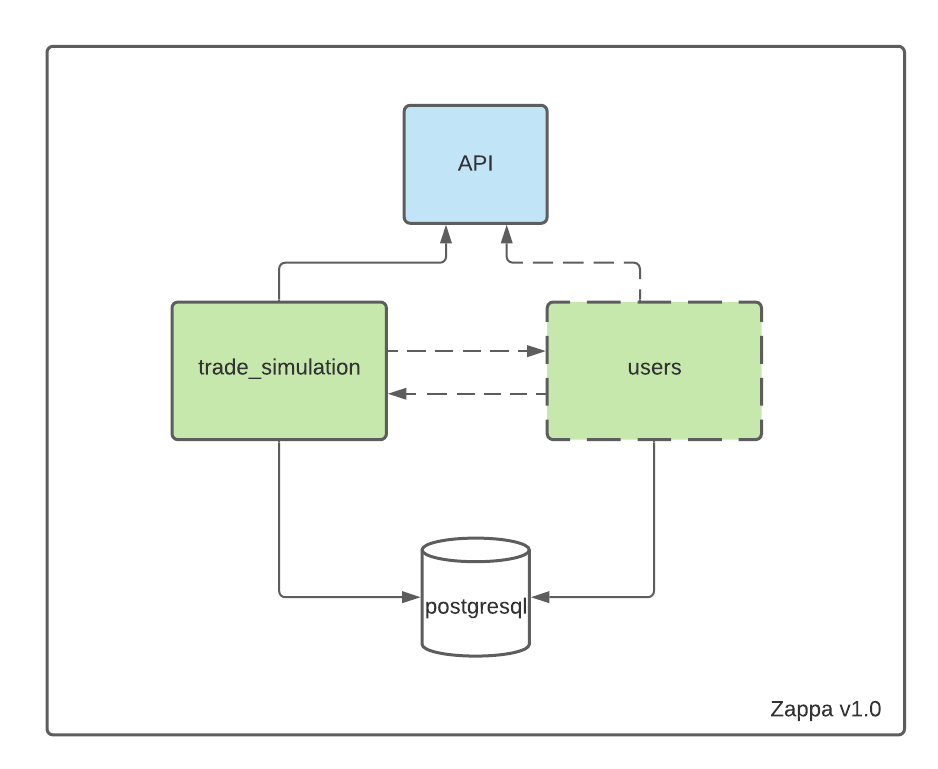
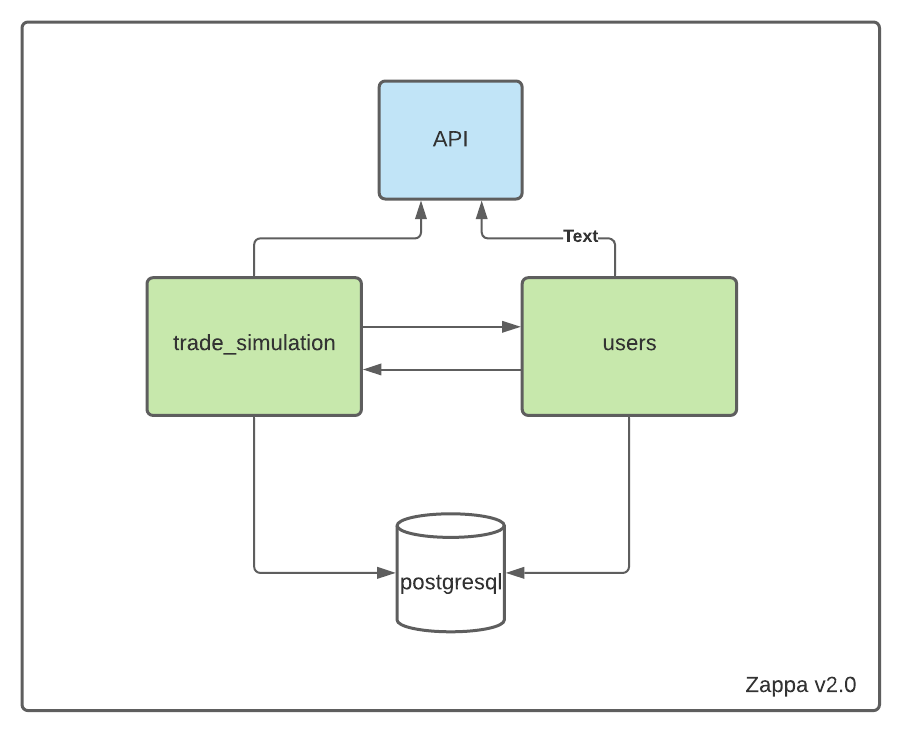
update diagrams

diff --git a/README.md b/README.md
@@ -4,7 +4,7 @@
 
 <p>This project is an API for creating competitive stock-trading games, in which the owners of virtual stock portfolios with an initial cash balance at the game's start can compete by buying and selling shares of stock at real market prices to achieve the highest portfolio value by the game's end. It uses stock price data from Yahoo Finance, which means players' knowledge of the real stock market will be a competitive advantage.<p>  
 
-<h3>Architecture v1.0</h3>
+<h3>Architecture v2.0</h3>
 
 <img src="images/architecture.png" width="600" />
  
@@ -12,7 +12,7 @@
  <h3>URL</h3>
  https://zappa-api.herokuapp.com/api
  
-<h3>Database v1.0</h3>
+<h3>Database v2.0</h3>
 
 <img src="images/db.png" width="1000" />
 
@@ -20,11 +20,11 @@
 
 Our main application logic is contained within:
 <ul>
-  <li>zappa/api/helpers.py</li> 
-  <li>zappa/api/serializers.py</li>
-  <li>zappa/api/utils.py</li>
-  <li>zappa/api/views.py</li>
-  <li>zappa/trade_simulation/models.py</li>
+  <li>api/helpers.py</li> 
+  <li>api/serializers.py</li>
+  <li>api/utils.py</li>
+  <li>api/views.py</li>
+  <li>trade_simulation/models.py</li>
 </ul>
 
 <h3> System tests </h3>
@@ -33,7 +33,7 @@ We have a suite of system tests using Postman, under the <a href="https://columb
 
 <h3> Unit tests </h3>
 
-To run our unit tests check our htmlcov file or, run coverage run --source='.' zappa/manage.py test zappa.<br/>
+To run our unit tests check our htmlcov file or, run coverage run --source='.' manage.py test zappa.<br/>
 Currently our coverage is at 89% which we hope to increase with each iteration.<br/>
 
 <h3>Style compliance</h3>
